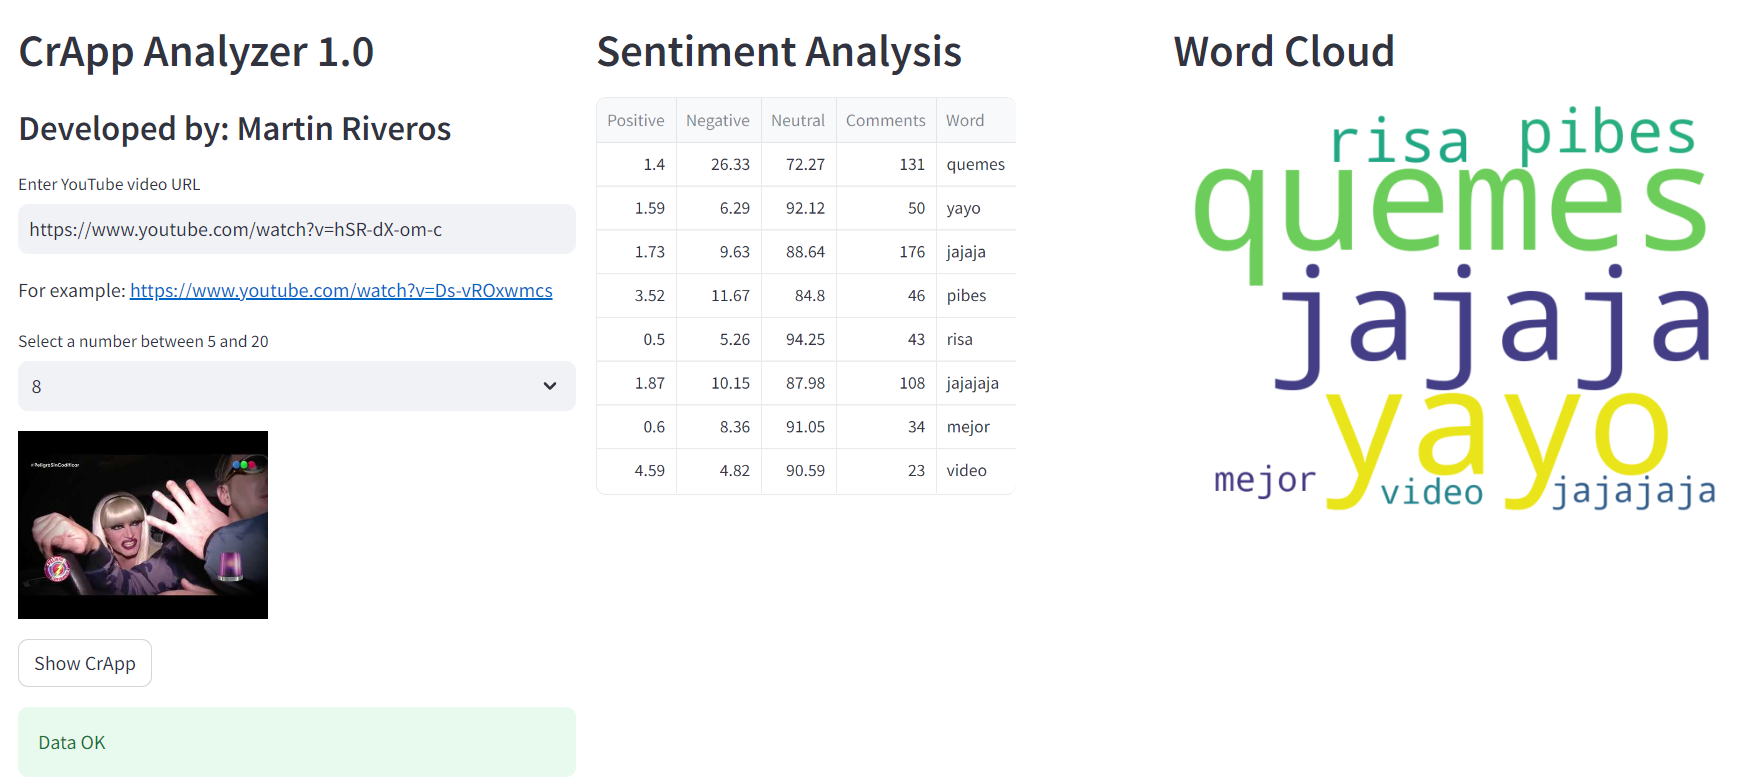
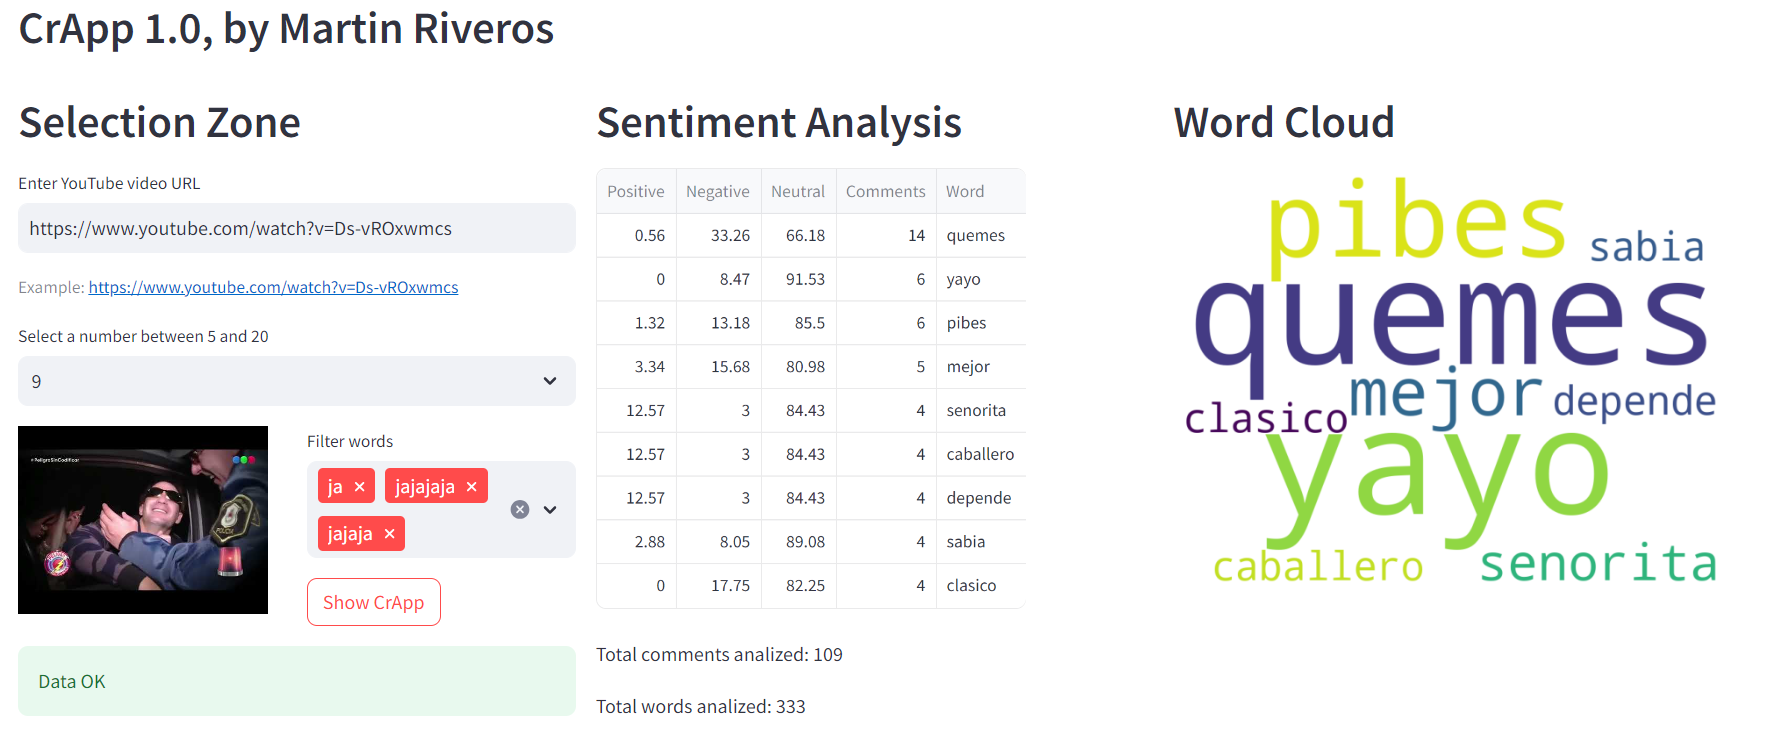
bug fixes and final feature

diff --git a/main.py b/main.py
@@ -20,7 +20,9 @@ st.set_page_config(
     page_icon=":poop:")
 
 # Your Streamlit app code goes here
+# Streamlit App
 
+st.header("CrApp 1.0, by Martin Riveros")
 
 # Function to extract video ID from URL
 def get_video_id(url):
@@ -44,16 +46,20 @@ DEVELOPER_KEY = os.environ.get('DEVELOPER_KEY')
 col1, col2, col3 = st.columns(3)
 
 
-def start_crapp(video_id, results_number):
+def start_crapp(video_id, results_number, additional_stopwords):
     
     comments = get_comments(video_id, DEVELOPER_KEY)
 
     with col2:
 
         word_count_result, reformat_comments = words_count(comments)
-        top_words_without_stopwords = eliminate_stopwords(word_count_result, results_number)
+        top_words_without_stopwords = eliminate_stopwords(word_count_result, results_number, additional_stopwords)
         st.header('Sentiment Analysis')
         st.dataframe(data=perform_sentiment_analysis(top_words_without_stopwords, reformat_comments))
+        
+        st.write(f'Total comments analized: {len(comments)}')
+        st.write(f'Total words analized: {len(word_count_result)}')
+
 
     with col3:
         generate_wordcloud(top_words_without_stopwords)
@@ -85,23 +91,21 @@ def words_count(comments):
     return word_counts, reformat_comments
 
 
-def eliminate_stopwords(all_words, number_to_select):
+def eliminate_stopwords(all_words, number_to_select, custom_selected_stopwords=[]):
 
     # nltk.download("stopwords_es")  # Download stopwords if not already available
     # nltk.download('punkt')
     from nltk.corpus import stopwords
     
-    stopwords_spanish = set(stopwords.words('spanish'))
+    stopwords_spanish = list(stopwords.words('spanish'))
+    stopwords_spanish.extend(custom_selected_stopwords)  # Add additional stopwords as needed
+    
     # stopwords_english = set(stopwords.words('english'))
 
     # Get most frequent words (excluding stopwords)
     filtered_counts = Counter({word: count for word, count in all_words.items() if word not in stopwords_spanish})
 
-    print(filtered_counts)
-
     top_words_tuple = filtered_counts.most_common(number_to_select)  # List of tuples (word, count)
-
-    print(top_words_tuple)
 
     # Create a list of the firts element of each tuple. The word we are lookging for is formed: ('the word we are loogin for', numer of appearences)
     first_element_top_words = []
@@ -179,12 +183,12 @@ def perform_sentiment_analysis(top_words_without_stopwords, comments):
     """
     analyzer = SentimentIntensityAnalyzer()
     all_scores = []
-    print(top_words_without_stopwords)
+
     for word in top_words_without_stopwords:
         comments_matched_for_the_word = 0
         sentiment_scores = {"Positive": 0, "Negative": 0, "Neutral": 0}
         for comment in comments:
-            if word in comment:
+            if word in comment.split():
                 comments_matched_for_the_word += 1
 
                 scores = analyzer.polarity_scores(comment)
@@ -219,8 +223,6 @@ def generate_wordcloud(comments):
 
     stopwords = stopwords.words('spanish')
 
-    # stopwords.add("jajajaja")  # Add additional stopwords as needed
-
     comment_text = " ".join([comment for comment in comments])
     text = comment_text.lower()  # Convert to lowercase
 
@@ -241,35 +243,38 @@ def generate_wordcloud(comments):
     ax.imshow(wordcloud)
     ax.axis("off")
     st.pyplot(fig)
-
-# Streamlit App
     
 with col1:
-    st.header("CrApp Analyzer 1.0")
-    st.subheader("Developed by: Martin Riveros")
+
+    st.header('Selection Zone')
 
     # Input fields and description
     video_url = st.text_input("Enter YouTube video URL", placeholder="Paste YouTube video URL here")
-    description = f"""For example: https://www.youtube.com/watch?v=Ds-vROxwmcs"""
-    st.markdown(description, unsafe_allow_html=True)
+    description = f"""Example: https://www.youtube.com/watch?v=Ds-vROxwmcs"""
+    st.caption(description, unsafe_allow_html=True)
     
-    results_number = st.selectbox("Select a number between 5 and 20", range(5, 21), index=0, format_func=lambda x: 'Select a number' if x == 5 else x)
+    results_number = st.selectbox("Select a number between 5 and 20", range(4, 21), index=0, format_func=lambda x: 'Select a number' if x == 4 else x)
 
     # Enable or disable the button based on whether both inputs are provided
     button_disabled = (not video_url) or (not results_number)
     
-    # Extract video ID and show thumbnail (if valid URL)
-    video_id = get_video_id(video_url)
-    if video_id:
-        thumbnail_url = f"https://img.youtube.com/vi/{video_id}/0.jpg"  # YouTube thumbnail format
-        st.image(thumbnail_url, width=200)
-    else:
-        st.warning("Please enter a valid YouTube video URL.")
-
-    # Show the button with dynamic enable/disable based on inputs
-    if button_disabled:
-        st.button("Show CrApp", disabled=True)
-    else:
-        st.button("Show CrApp", on_click=lambda: start_crapp(video_id, results_number))
+    cola, colb = st.columns(2)
+    with cola:
+        # Extract video ID and show thumbnail (if valid URL)
+        video_id = get_video_id(video_url)
+        if video_id:
+            thumbnail_url = f"https://img.youtube.com/vi/{video_id}/0.jpg"  # YouTube thumbnail format
+            st.image(thumbnail_url, width=200)
+        else:
+            st.warning("Please enter a valid YouTube video URL.")
+    with colb:
+        # Show the button with dynamic enable/disable based on inputs
+        if button_disabled:
+            st.button("Show CrApp", disabled=True)
+        else:
+            word_count_result, reformat_comments = words_count(get_comments(video_id, DEVELOPER_KEY))
+            top_words_without_stopwords = eliminate_stopwords(word_count_result, results_number)
+            additional_stopwords = st.multiselect('Filter words', word_count_result)
+            st.button("Show CrApp", on_click=lambda: start_crapp(video_id, results_number, additional_stopwords))
 
 
